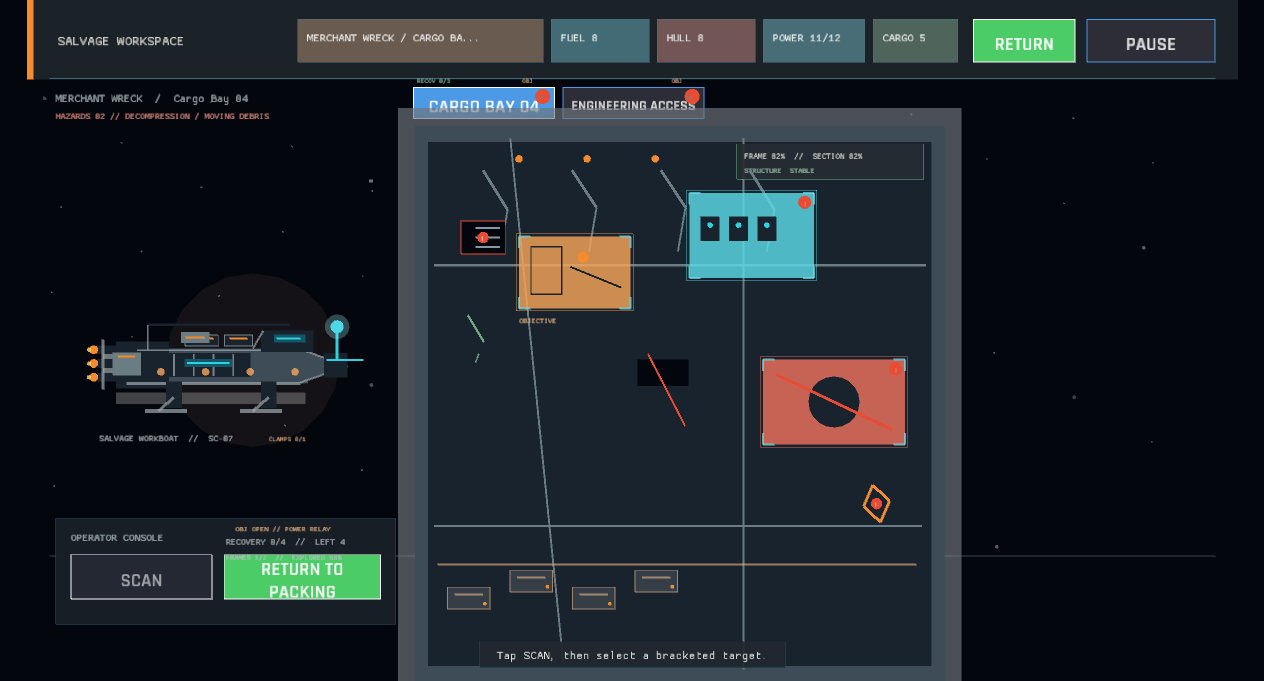
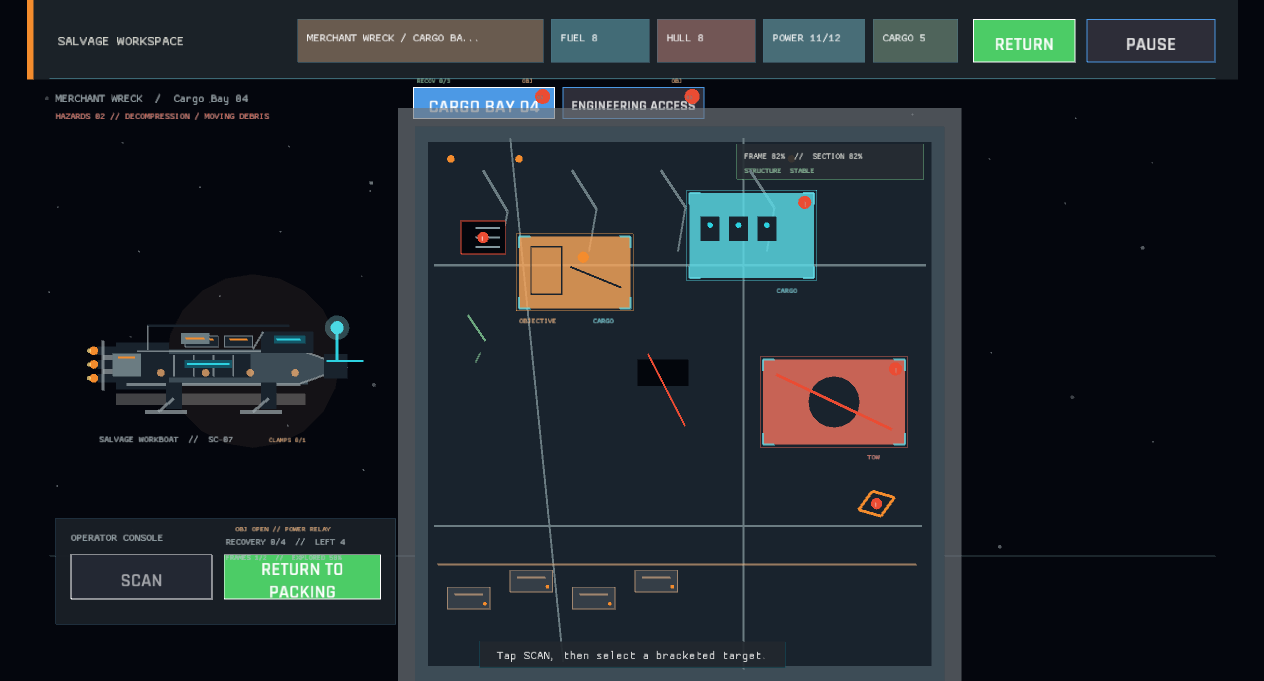
Each wreck mount declares its way home (workspace transfer markers)
Show a compact CARGO, CLAMP, or TOW marker on every scanned salvage mount, using the same destination mode and color language as the active extraction route.

Refresh merchant, military, and research workspace captures to verify the marker remains readable across the authored wreck profiles.

diff --git a/src/ui/wreck_visual.rs b/src/ui/wreck_visual.rs
@@ -4,7 +4,7 @@ use super::condition_visual;
 use super::scene_layout::SalvageLayout;
 use super::visual_theme;
 use crate::data::{GameData, SiteData};
-use crate::state::workspace::WorkspaceConditionStatus;
+use crate::state::workspace::{TransferMode, WorkspaceConditionStatus};
 use crate::state::GameSession;
 use macroquad::prelude::*;
 use macroquad_toolkit::math::blink;
@@ -677,6 +677,21 @@ fn draw_target_mount(
         );
     }
     if let Some(target) = target {
+        if scanned {
+            let transfer_mode = TransferMode::from_target(target);
+            let transfer_color = match transfer_mode {
+                TransferMode::InternalCargo => visual_theme::cyan(),
+                TransferMode::ExternalClamp => visual_theme::amber(),
+                TransferMode::Tow => visual_theme::warning(),
+            };
+            draw_text(
+                transfer_mode.short_label(),
+                draw_rect.right() - 40.0,
+                draw_rect.bottom() + 16.0,
+                10.0,
+                transfer_color,
+            );
+        }
         if scanned && target.hazard.is_some() {
             draw_circle(
                 draw_rect.right() - 10.0,
